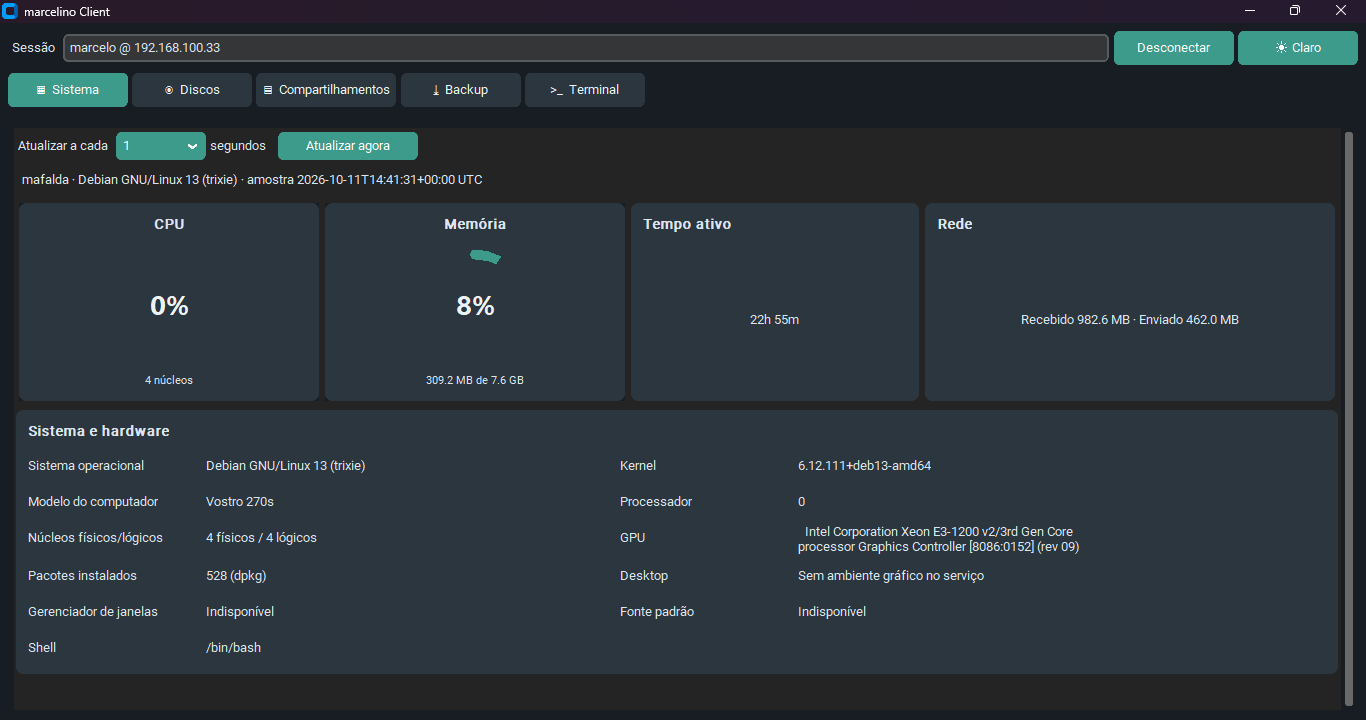
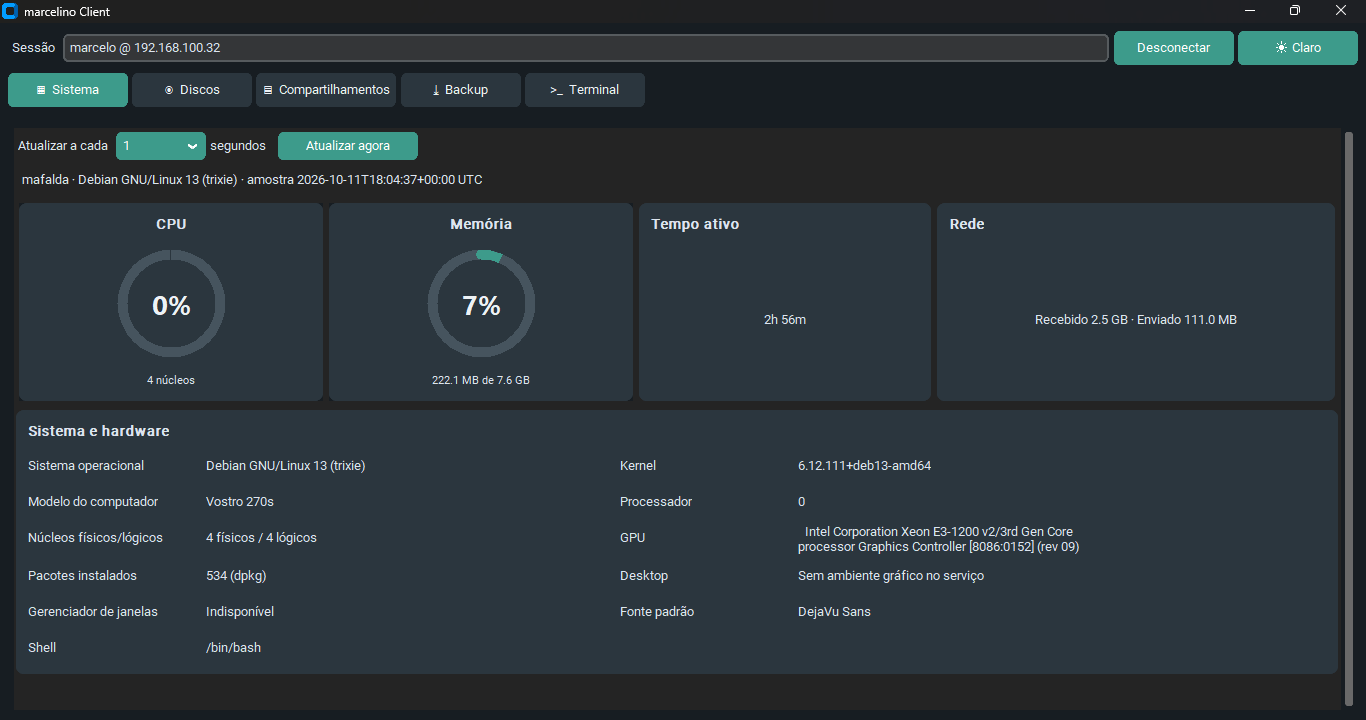
fix: update theme colors and improve filesystem progress bar layout in marcelinoClient

diff --git a/marcelinoClient.py b/marcelinoClient.py
@@ -318,7 +318,7 @@ class MetricRing(ctk.CTkFrame):
     def set_theme_colors(self, colors):
         self.configure(bg_color="transparent", fg_color=colors["panel"])
         self.canvas.configure(bg=colors["panel"])
-        self.canvas.itemconfigure(self.track_id, outline=colors["panel"])
+        self.canvas.itemconfigure(self.track_id, outline=colors["border"])
         self.canvas.itemconfigure(self.progress_id, outline=colors["accent"])
         self.canvas.itemconfigure(self.value_id, fill=colors["text"])
 
@@ -734,6 +734,8 @@ class App(ctk.CTk):
             disk_bar.configure(fg_color=colors["panel"], progress_color=colors["accent"])
         for filesystem_bar in getattr(self, "filesystem_progress_bars", []):
             filesystem_bar.configure(fg_color=colors["panel"], progress_color=colors["accent"])
+        for row_widgets in getattr(self, "filesystem_rows", {}).values():
+            row_widgets["bar_frame"].configure(border_color=colors["border"])
         self.style.configure(".", background=colors["background"], foreground=colors["text"])
         self.style.configure("TFrame", background=colors["background"])
         self.style.configure("TLabel", background=colors["background"], foreground=colors["text"])
@@ -1072,18 +1074,10 @@ class App(ctk.CTk):
         return b""
 
     def _read_ssh_output(self, generation, channel):
-        pending = bytearray()
-
-        def flush_pending():
-            if pending:
-                self.q.put(("ssh_data", (generation, bytes(pending))))
-                pending.clear()
-
         while not channel.closed:
             try:
                 output = channel.recv(32768)
             except socket.timeout:
-                flush_pending()
                 continue
             except Exception as error:
                 if not channel.closed:
@@ -1092,10 +1086,7 @@ class App(ctk.CTk):
                 break
             if not output:
                 break
-            pending.extend(output)
-            if len(pending) >= 32768:
-                flush_pending()
-        flush_pending()
+            self.q.put(("ssh_data", (generation, output)))
         self.ui(lambda: self._ssh_channel_closed(generation))
 
     def _feed_ssh_output(self, generation, data):
@@ -1437,7 +1428,7 @@ class App(ctk.CTk):
                 val()
         if self.ssh_screen_dirty:
             self._render_ssh_screen()
-        self.after(100, self._pump)
+        self.after(20 if self.ssh_channel else 100, self._pump)
 
     def ui(self, fn):
         self.q.put(("call", fn))
@@ -1609,29 +1600,51 @@ class App(ctk.CTk):
             if row_widgets is None:
                 row = ctk.CTkFrame(self.filesystem_bars_container, fg_color="transparent")
                 row.pack(fill="x", padx=2, pady=3)
-                name_label = ctk.CTkLabel(row, anchor="w", width=280)
-                name_label.pack(side="left", padx=(4, 8))
-                progress = ctk.CTkProgressBar(
+                for column, weight, minsize in (
+                    (0, 2, 220), (1, 2, 175), (2, 1, 110), (3, 0, 174), (4, 0, 210),
+                ):
+                    row.grid_columnconfigure(column, weight=weight, minsize=minsize)
+                mountpoint_label = ctk.CTkLabel(row, anchor="w")
+                mountpoint_label.grid(row=0, column=0, sticky="ew", padx=(4, 12))
+                device_label = ctk.CTkLabel(row, anchor="w")
+                device_label.grid(row=0, column=1, sticky="ew", padx=(0, 12))
+                filesystem_label = ctk.CTkLabel(row, anchor="w")
+                filesystem_label.grid(row=0, column=2, sticky="ew", padx=(0, 12))
+                bar_frame = ctk.CTkFrame(
                     row,
-                    height=12,
+                    width=174,
+                    height=18,
+                    fg_color="transparent",
+                    border_width=1,
+                    border_color=self.theme_colors["border"],
+                )
+                bar_frame.grid(row=0, column=3, sticky="w", padx=(0, 12))
+                bar_frame.grid_propagate(False)
+                progress = ctk.CTkProgressBar(
+                    bar_frame,
+                    width=162,
+                    height=10,
                     fg_color=self.theme_colors["panel"],
                     progress_color=self.theme_colors["accent"],
                 )
-                progress.pack(side="left", fill="x", expand=True, padx=4)
-                usage_label = ctk.CTkLabel(row, width=150, anchor="e")
-                usage_label.pack(side="right", padx=(8, 4))
+                progress.pack(fill="both", expand=True, padx=5, pady=3)
+                usage_label = ctk.CTkLabel(row, anchor="e")
+                usage_label.grid(row=0, column=4, sticky="e", padx=(0, 4))
                 row_widgets = {
                     "frame": row,
-                    "name": name_label,
+                    "mountpoint": mountpoint_label,
+                    "device": device_label,
+                    "filesystem": filesystem_label,
+                    "bar_frame": bar_frame,
                     "progress": progress,
                     "usage": usage_label,
                 }
                 self.filesystem_rows[mountpoint] = row_widgets
 
             percent = float(filesystem["percent"])
-            row_widgets["name"].configure(text=(
-                f"{mountpoint} · {filesystem['device']} · {filesystem['filesystem']}"
-            ))
+            row_widgets["mountpoint"].configure(text=mountpoint)
+            row_widgets["device"].configure(text=filesystem["device"])
+            row_widgets["filesystem"].configure(text=filesystem["filesystem"])
             row_widgets["progress"].set(max(0.0, min(1.0, percent / 100)))
             row_widgets["usage"].configure(text=(
                 f"{percent:.0f}% · {self._format_bytes(filesystem['free_bytes'])} livre"
